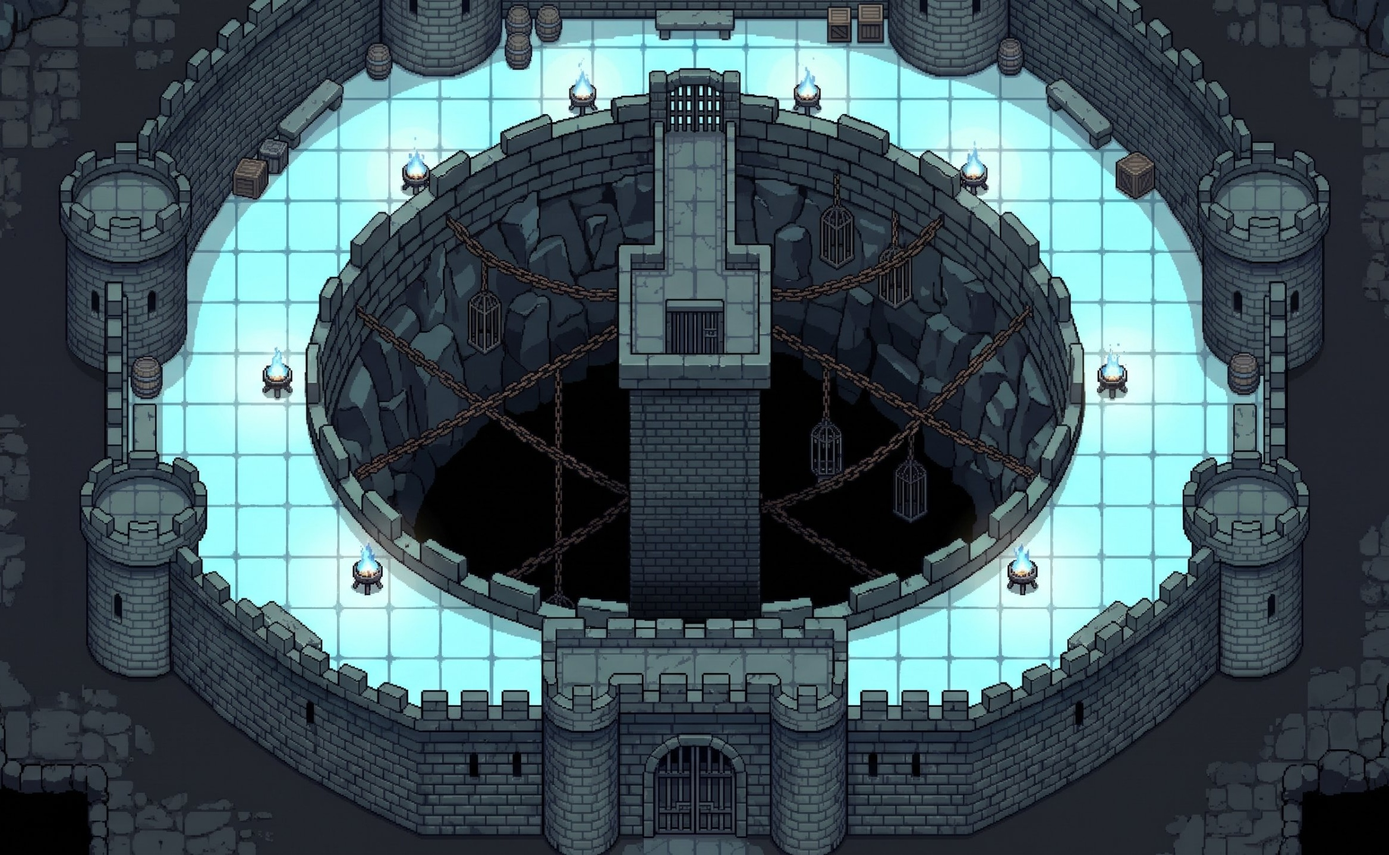
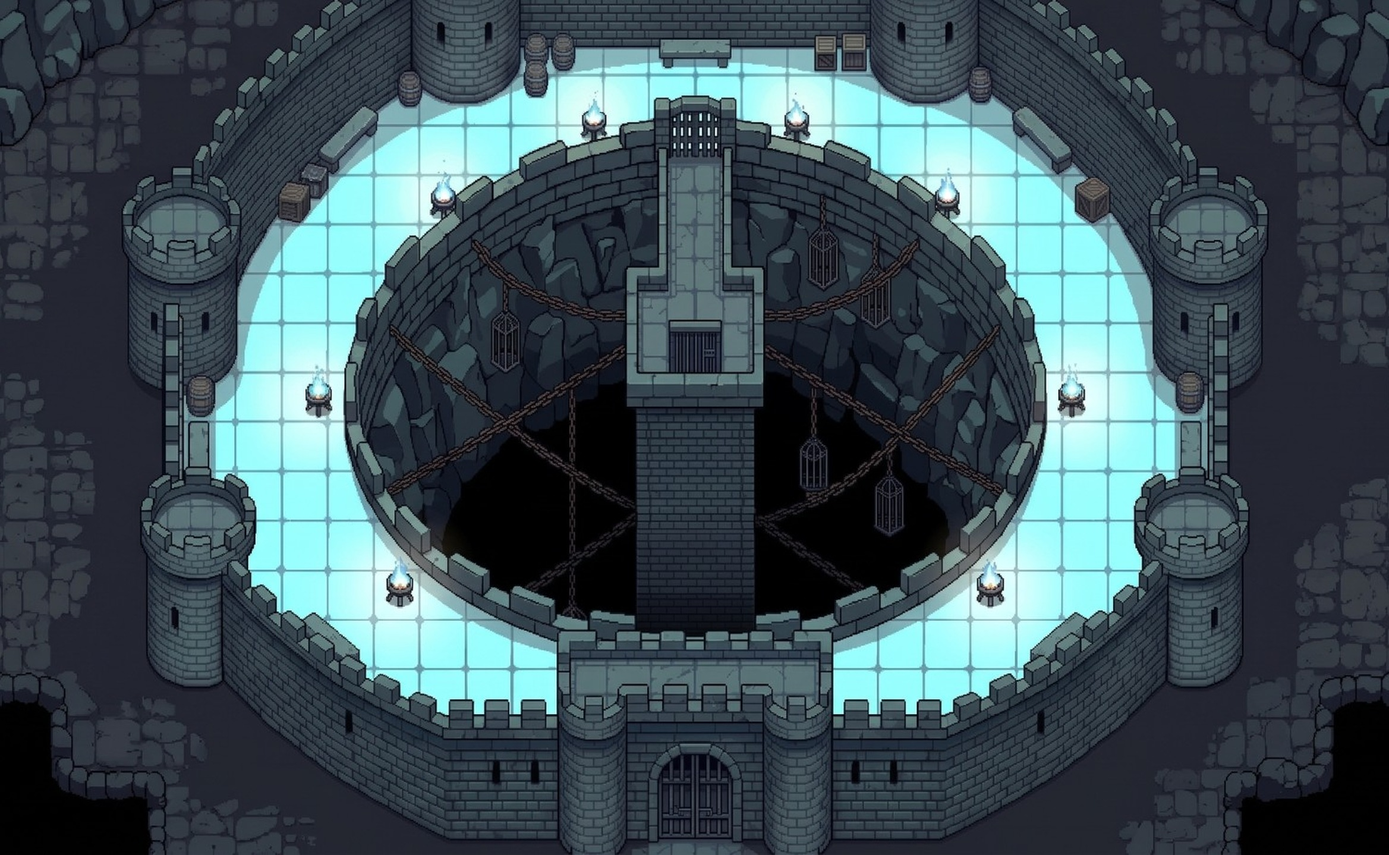
Hapishane Dış Halka: yeni görsel (çember tam görünür, dış kayalık kırpıldı), zemin yeni çembere hizalandı
Görsel 1500×923 kırpılıp 2337×1438'e ölçeklendi; zemin (çukur, köprü, sekiz mangal, sandık/bank), başlangıç
altıgenleri, zincir/sopa nesneleri ve ışıklar yeni konumlara taşındı. Dış halka geçişi 30 tohumda %83 (önce %81).

Claude-Session: https://claude.ai/code/session_01SsbfMzA823QzFotxpXSZKv

diff --git a/scripts/k36-hapishane.py b/scripts/k36-hapishane.py
@@ -91,30 +91,30 @@ def hucre():
 
 
 def halka():
-    """Dış halka (görselden): halka yol (mavi ışıklı taş), ortada derin çukur, kuzey-güney taş geçit; kuzey kapı (10,1),
+    """Dış halka (görselden; Kuyruk 41 sonrası yeni, daha geniş görsel kırpıldı): halka yol (mavi ışıklı taş), ortada derin çukur, kuzey-güney taş geçit; kuzey kapı (10,1),
     geçidin ortasında platform kapısı (10,4), güney kapı (10,10); kuzey kulenin kapısı (10,0)."""
     g = rows([
-        'sssss........x..sssss',
-        'sss.....ms.sm.....sss',
-        'ss.x..mwwwpwwwm..x.ss',
-        'ss...wwwwwpwwwww...ss',
-        's.xm.wwwwwpwwwww.m.xs',
-        's....wwwwwpwwwww....s',
-        'ss...wwwwwpwwwww...ss',
-        'ss...mwwwwpwwwwm...ss',
-        'sss.....s...s.....sss',
+        'ssssssss..x.xssssssss',
+        'sssssxx.mwpwm.xxsssss',
+        'ssssx.mwwwpwwwm.xssss',
+        'sss..wwwwwpwwwww..sss',
+        'sss..wwwwwpwwwww..sss',
+        'sss.mwwwwwpwwwwwm.sss',
+        'ssss..wwwwpwwww..ssss',
+        'ssss.m.wwwpwwwwm.ssss',
+        'ssssss....p....ssssss',
         'ssssssssss.ssssssssss',
         'ssssssssss.ssssssssss',
     ])
-    players = [(10, 2), (10, 3), (9, 0), (11, 0), (8, 0), (12, 0), (7, 1), (13, 1), (6, 1), (14, 1)]
+    players = [(10, 2), (10, 3), (9, 0), (11, 0), (8, 0), (7, 1), (13, 1), (5, 2), (15, 2), (10, 1)]
     enemies = [(3, 3), (4, 6), (17, 3), (16, 6), (13, 8), (7, 8)]
-    objects = [obj(None, 'chain', (2, 5)), obj(None, 'cudgel', (18, 5))]
+    objects = [obj(None, 'chain', (3, 5)), obj(None, 'cudgel', (17, 5))]
     groups = [{'id': 'devriye', 'state': 'calm', 'hexes': h1([(c, r) for r in range(ROWS) for c in range(COLS) if g[r][c] == '.' and c != 10]), 'links': []}]
     goals = {'mode': 'any', 'list': [{'id': 'gecis', 'kind': 'veya', 'options': [
         [{'id': 'devriyeler', 'kind': 'defeat'}],
         [{'id': 'guneyKapisi', 'kind': 'reach', 'hexes': h1([(10, 10)]), 'ids': ['mahkum']}],
     ]}], 'fail': [{'kind': 'down', 'ids': ['mahkum']}]}
-    rules = [dark([(8, 1), (12, 1), (6, 2), (14, 2), (3, 4), (17, 4), (5, 7), (15, 7)], 'Dış halka: altı mavi mangal ve kapılar aydınlık; çukurun dibi görünmez.')]
+    rules = [dark([(8, 1), (12, 1), (6, 2), (14, 2), (4, 5), (16, 5), (5, 7), (15, 7)], 'Dış halka: sekiz mavi mangal ve kapılar aydınlık; çukurun dibi görünmez.')]
     return g, players, enemies, objects, groups, goals, rules
 
 
